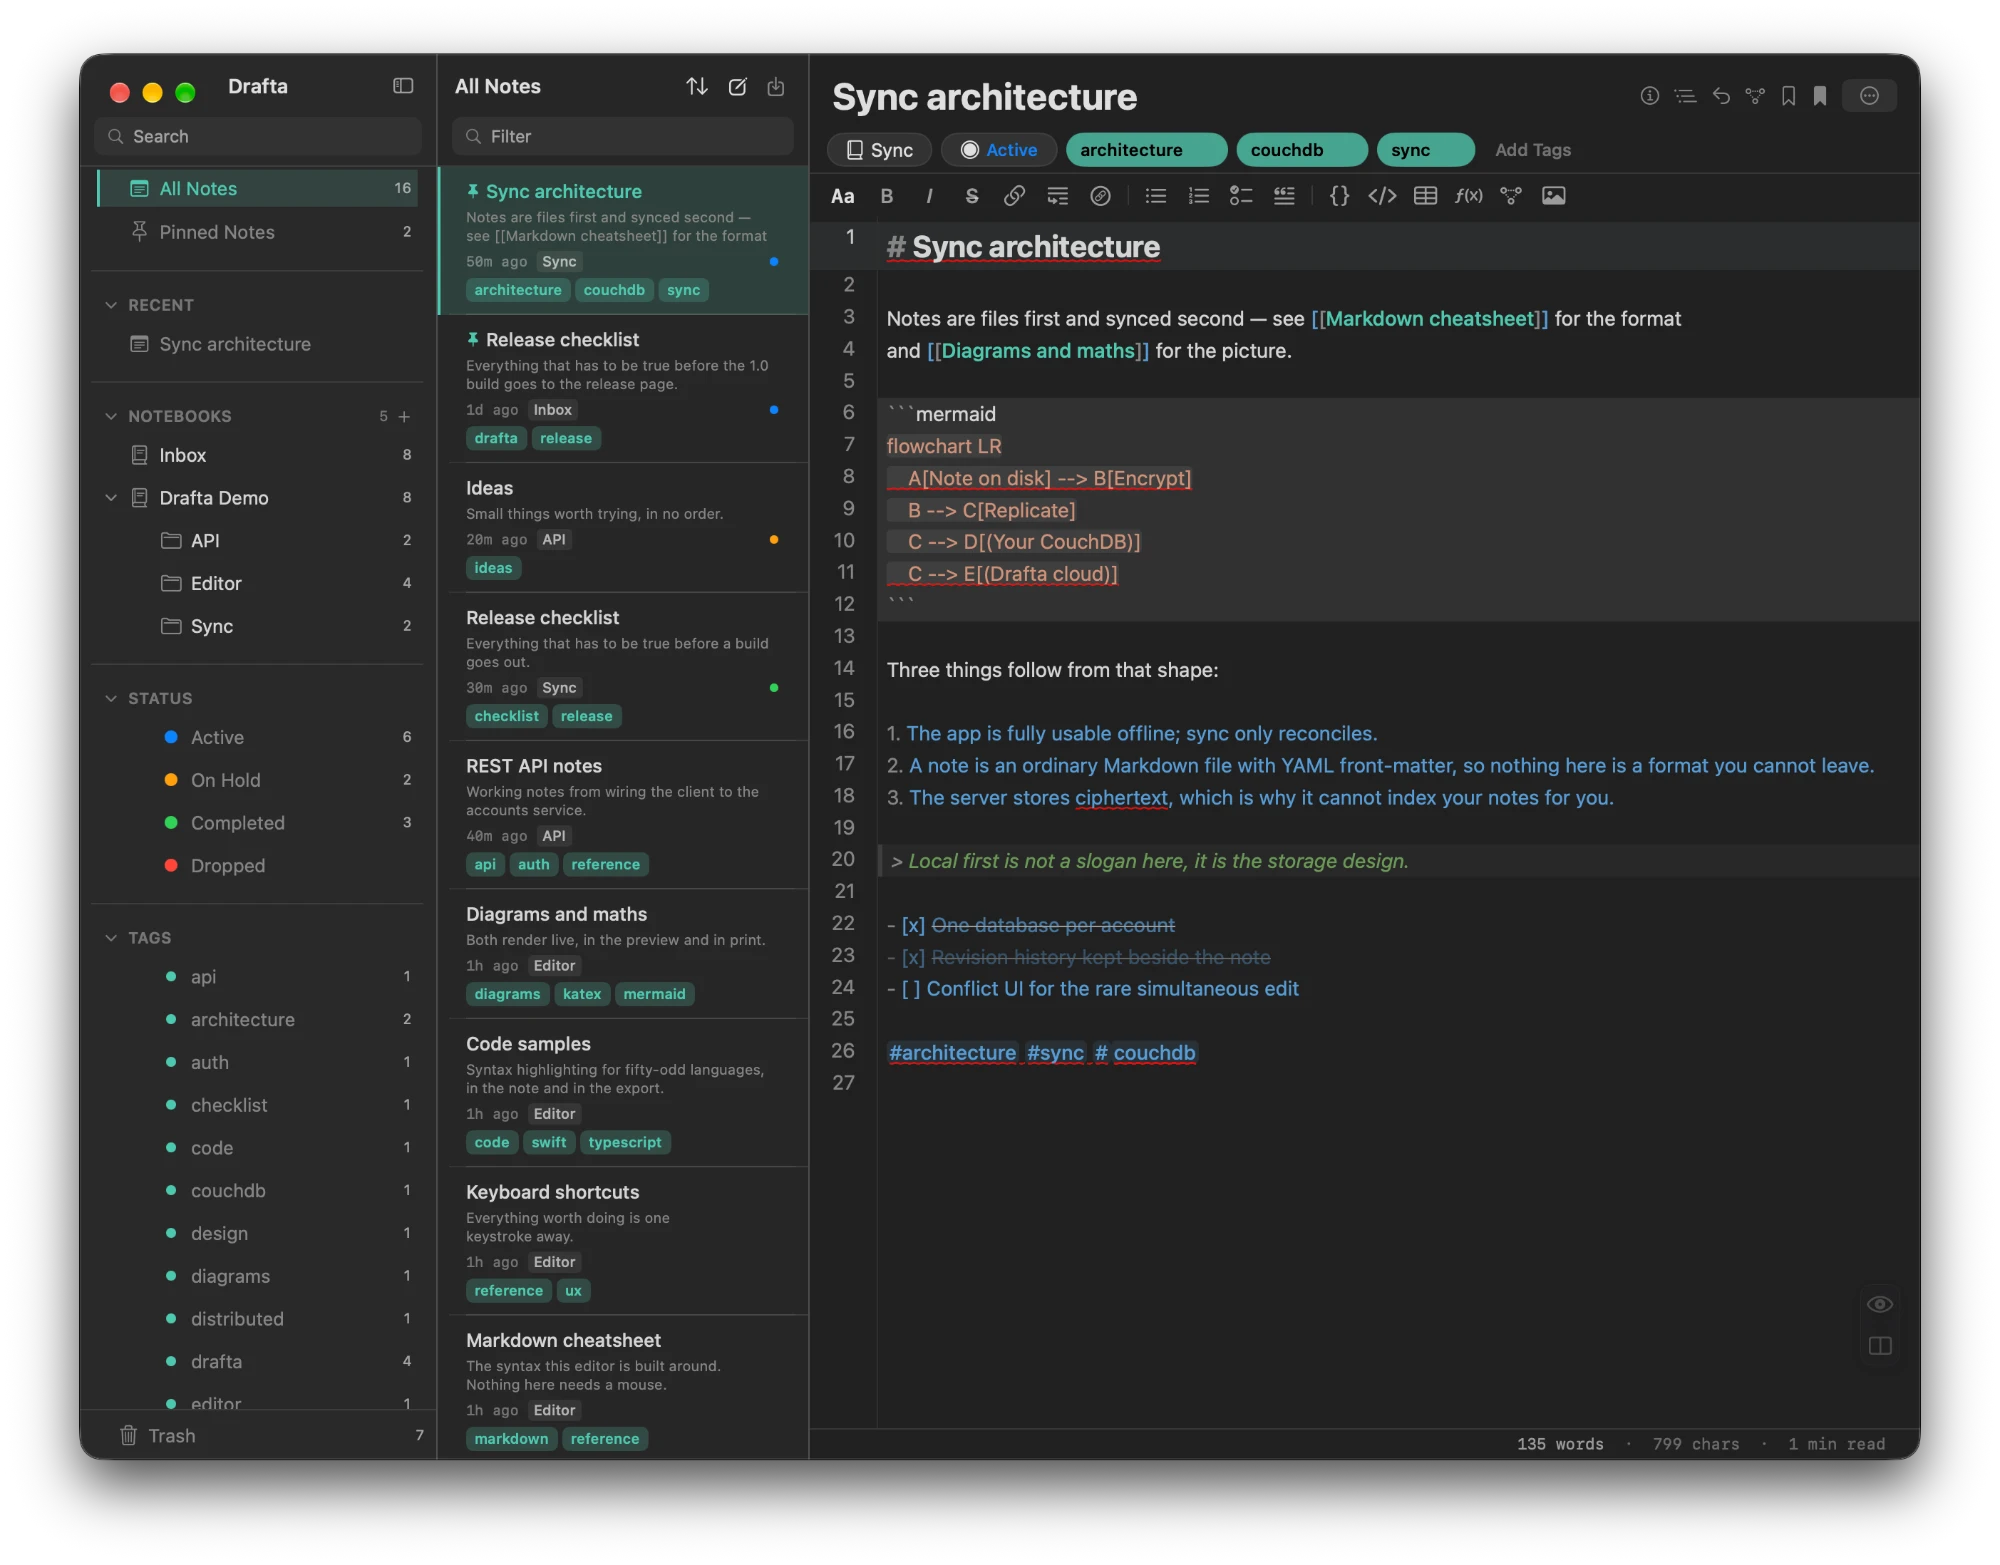
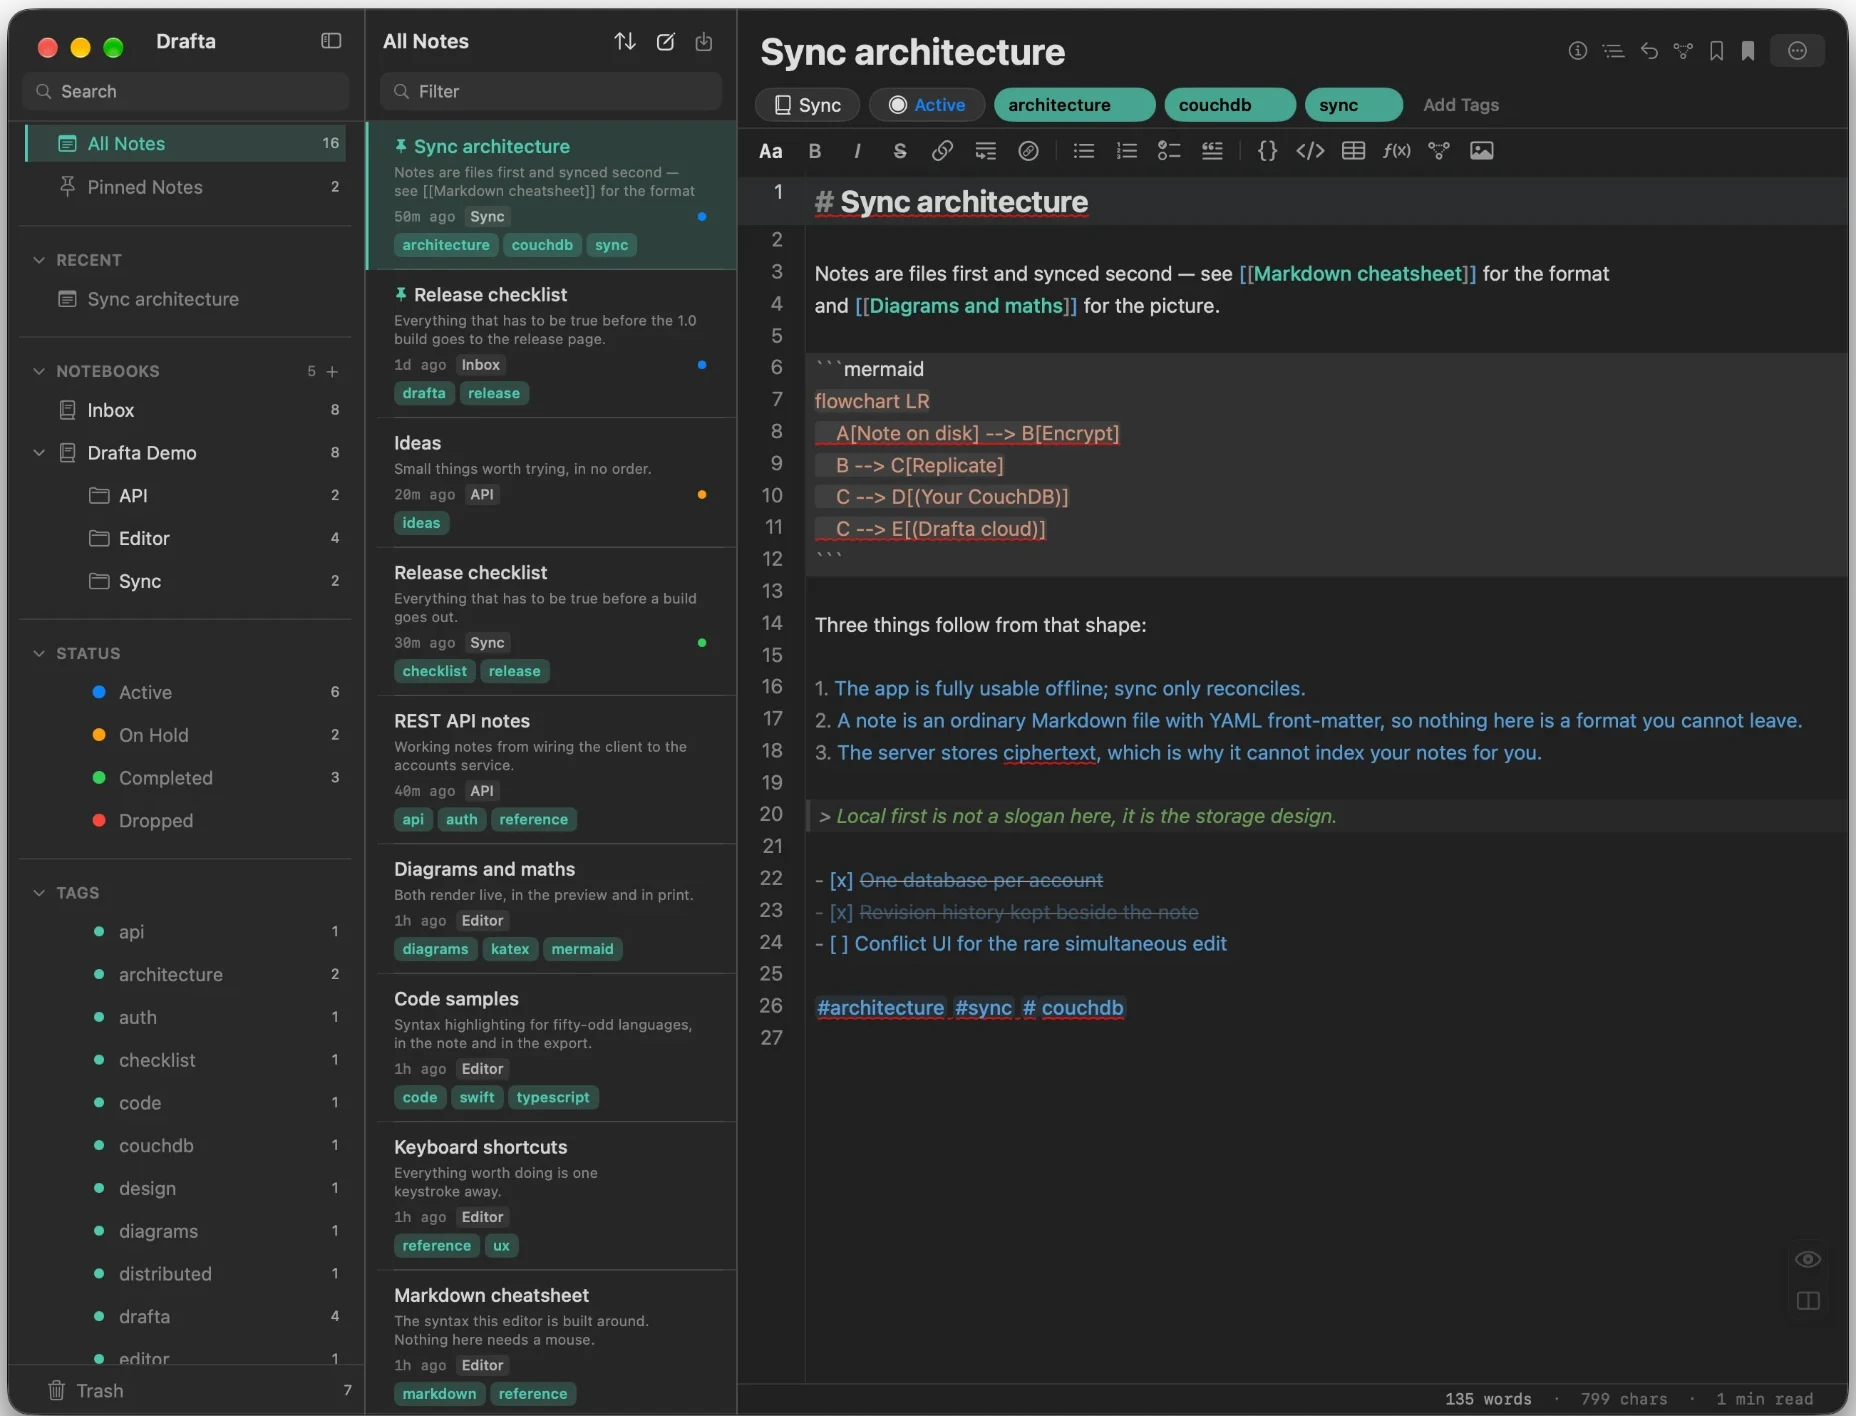
Drafta: превью карточки — реальный скриншот, убрана картинка-заглушка
Скриншоты обрезаны по краю окна, без прозрачных полей.

Claude-Session: https://claude.ai/code/session_018b3wJKSCJ1vDrXreDMPdwY

Changed region(s): [[0.0, 0.0, 1.0, 1.0], [0.375, 0.2486, 0.4062, 0.2797]]

diff --git a/pages/works.js b/pages/works.js
@@ -10,7 +10,7 @@ import thumbTezish from '../public/images/works/tezish_title.jpg'
 import thumbHrCrm from '../public/images/works/crm_title.jpg'
 import thumbFrontiers from '../public/images/works/frontiers_title.jpg'
 import thumbEtalon from '../public/images/works/etalon_title.jpg'
-import thumbDrafta from '../public/images/works/drafta_title.png'
+import thumbDrafta from '../public/images/works/drafta_preview.webp'
 import thumbInfodiode from '../public/images/works/infodiode_title.png'
 import thumbEcho from '../public/images/works/echo_title.png'
 import thumbHelm from '../public/images/works/helm 00.png'

diff --git a/pages/works/drafta.js b/pages/works/drafta.js
@@ -44,10 +44,6 @@ const Work = () => {
           src="/images/works/drafta_preview.webp"
           alt={t('workDetail.drafta.altPreview')}
         />
-        <WorkImage
-          src="/images/works/drafta_title.png"
-          alt={t('workDetail.drafta.alt')}
-        />
       </Container>
     </Layout>
   )
